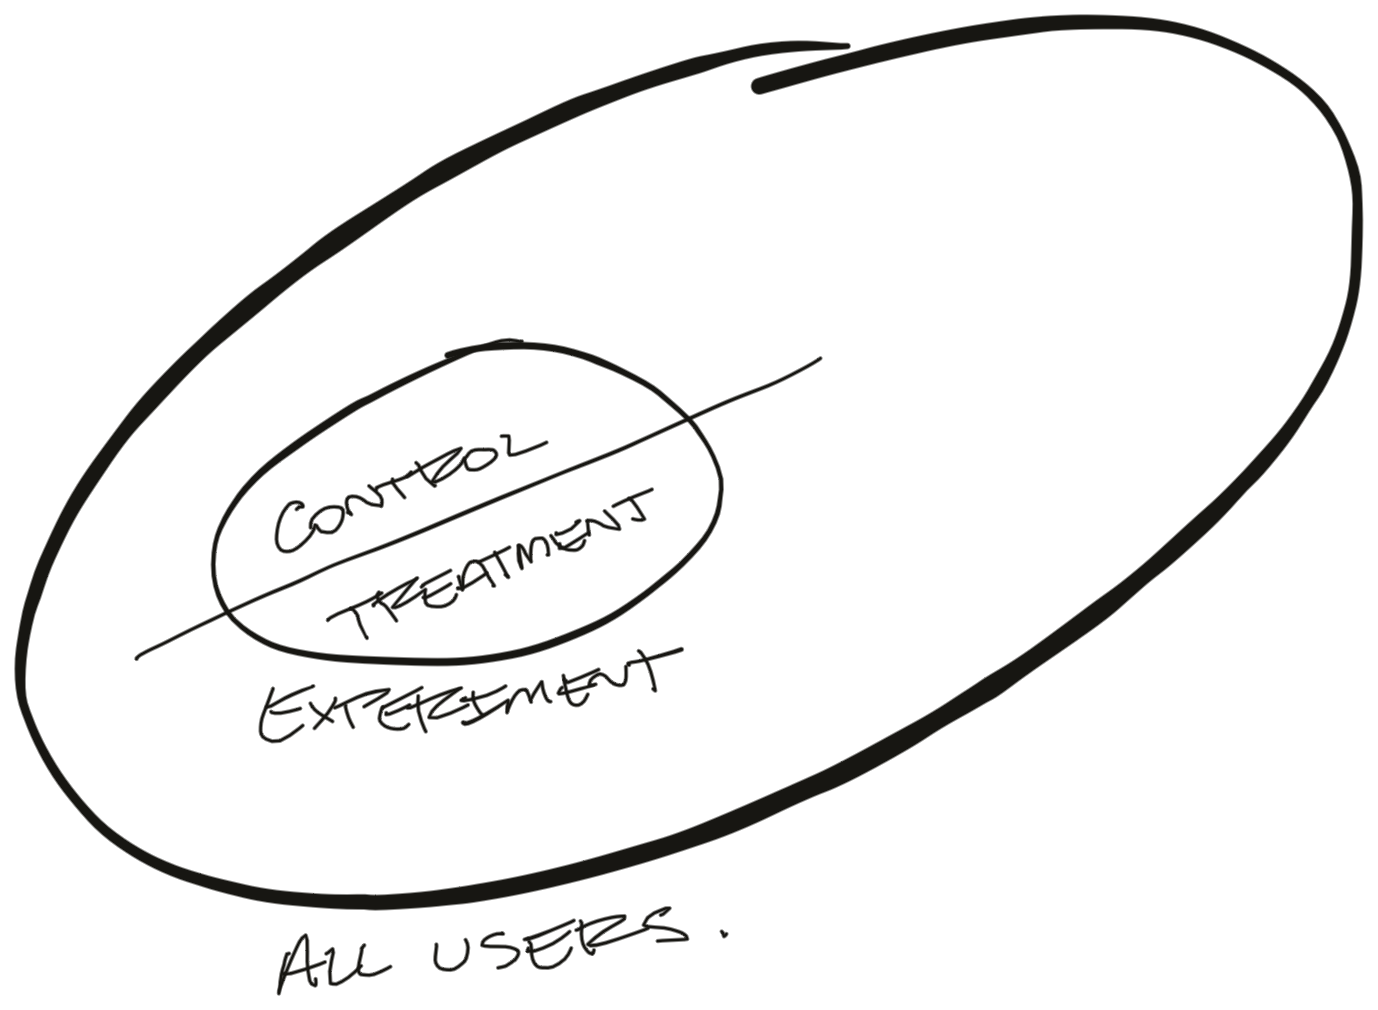
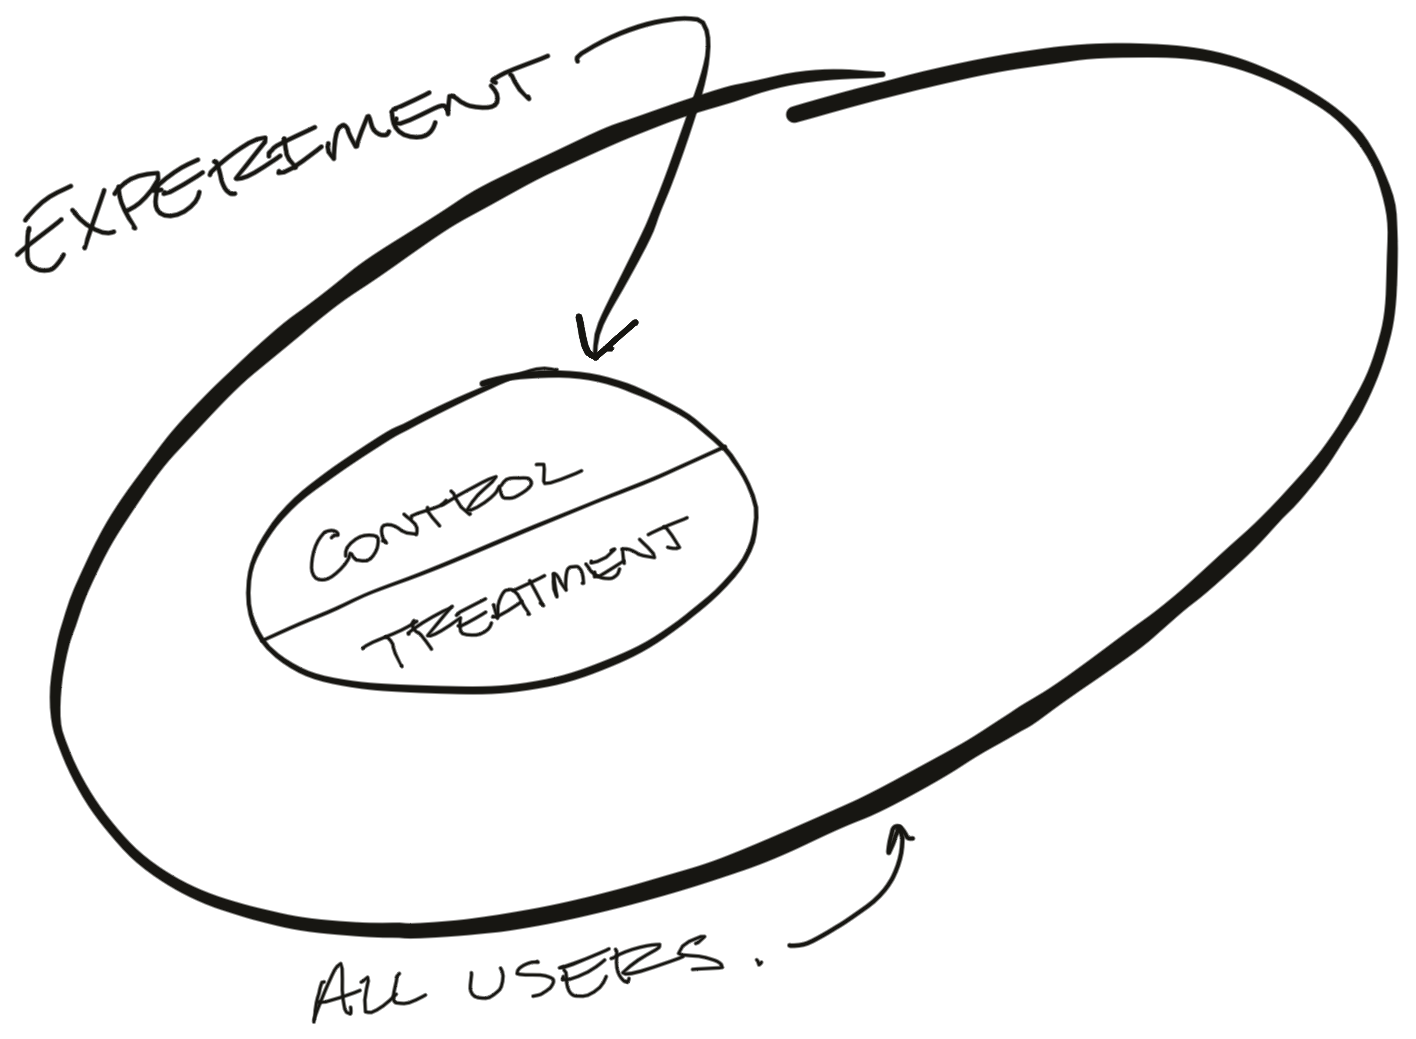
Change blog email, finish "Why experiment?"

diff --git a/themes/harterrt-svbhack/templates/article.html b/themes/harterrt-svbhack/templates/article.html
@@ -27,7 +27,7 @@
   <div class="article_footer">
     <p>
         Feel free to share any feedback via email!
-        You can reach me at <code>harterrt</code> on gmail.
+        You can reach me at <code>blog@harterrt.com</code>.
         Look forward to hearing from you!
     </p>
   </div>

diff --git a/content/mozilla/why_experiment.md b/content/mozilla/why_experiment.md
@@ -1,6 +1,6 @@
 title: Controlled Experiments - Why Bother?
 slug: why_experiment
-date: 2020-12-18
+date: 2021-01-05
 status: draft
 tags: data-intuition
 
@@ -13,7 +13,7 @@ a massive experiment for Firefox.
 We launched a bunch of new features with Firefox 80
 and we wanted to understand whether these new features improved our metrics.
 
-In the process, I ended up talking with a lot of Firefox engineers
+In the process, I ended up talking with a bunch of Firefox engineers
 and explaining why we need to run a controlled experiment.
 There were a few questions that got repeated a lot,
 so I figure it's worth answering them here.
@@ -21,9 +21,9 @@ so I figure it's worth answering them here.
 This article is the first in a series I'm writing on building
 [data intuition](/data_intuition.html).
 This article is targeted at new data scientists 
-or engineers interested in data,
-but I also hope this becomes a useful resource 
-for data scientists to point their stake-holders to.
+or engineers interested in data.
+I also hope this becomes a useful resource for data scientists,
+so they can point their stake-holders to this resource.
 
 ## What is an *experiment*?
 
@@ -43,7 +43,7 @@ In practice, this is a very liberal definition of experimentation.
 By this definition, playing slots isn't gambling, it's an experiment!
 When data scientists talk about "experimentation"
 we're usually talking about "controlled experiments"
-instead of this type of hold-my-beer type of experimentation..
+instead of this type of hold-my-beer type of experimentation.
 
 ## What is a *controlled* experiment?
 
@@ -80,14 +80,15 @@ Here's a doodle of what this looks like:
 <center><img width="75%" src="/images/why-expt/experiment-overview.png"></img></center>
 
 A controlled experiment is a tool to help us establish *causation*.
-We want separate the effect our new feature has 
+We want to separate the effect our new feature has 
 from all of the random noise that affects our metrics day-to-day.
 Because these experiments happened at the same time
-and the only difference between the two branches was our new feature
+and the only difference between the two branches was our new feature,
 we know that any change in the results is caused by the addition of our feature.
 
 This is still surprisingly difficult to do with Firefox.
-Getting a feature behind a pref so we can switch it on and off remotely
+Getting a feature behind a pref
+(so we can switch it on and off remotely)
 adds a lot of complexity.
 Folks are understandably curious about why we're going through such a rigmarole.
 
@@ -98,7 +99,7 @@ Let's consider some simpler options (and why they don't actually work).
 If we want to understand what effect our new feature has on usage,
 why not compare users that engage with our feature to users who don't?
 
-For example, we recently launched improvements to 
+For example, we recently launched improvements to
 [Firefox's PDF Viewer](https://support.mozilla.org/en-US/kb/view-pdf-files-firefox-or-choose-another-viewer).
 We're interested in knowing whether these improvements 
 increased user retention.
@@ -153,7 +154,8 @@ If we do see something like this,
 then it's pretty clear what effect our launch had.
 In reality, this is a very optimistic case.
 Seeing such a clear effect is the equivalent of being struck by lightening.
-It's a big effect and *you know* when it happens.
+It's a big effect and *you know* when it happens
+([relevant xkcd]( https://xkcd.com/2400/)).
 
 More often, our metric is much more volatile than this
 and our effect is much smaller.
@@ -295,7 +297,7 @@ There's still plenty of room for
 hold-my-beer kites-in-a-storm type experimentation,
 Especially early in a feature's lifecycle.
 But, if we want to be able to spot subtle changes to our products
-we need to run conrolled experiments.
+we need to run controlled experiments.
 
 Hopefully these examples clarify why experimentation is so popular.
 At the very least I hope this article
@@ -312,4 +314,4 @@ I'd love feedback on what to write next.
 Shoot me an email if you have ideas!
 
 ---
-*Thanks to Dan McKinley and Marissa Gorlick for reading drafts of this article*
+*Thanks to Dan McKinley and Audra Harter for reading drafts of this article*
